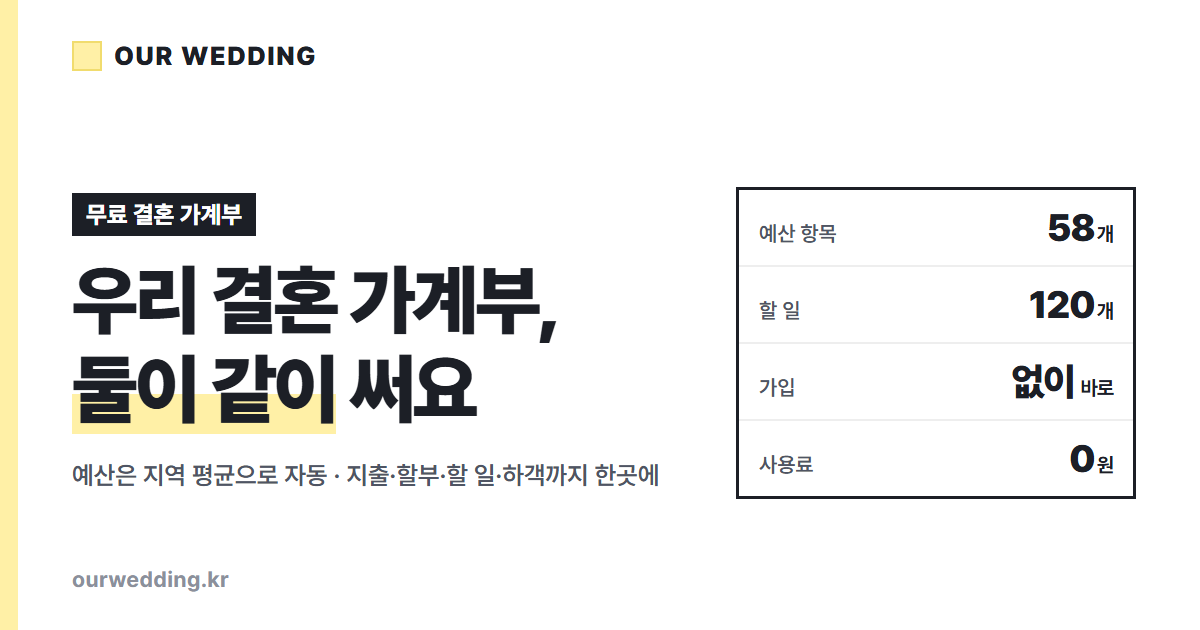
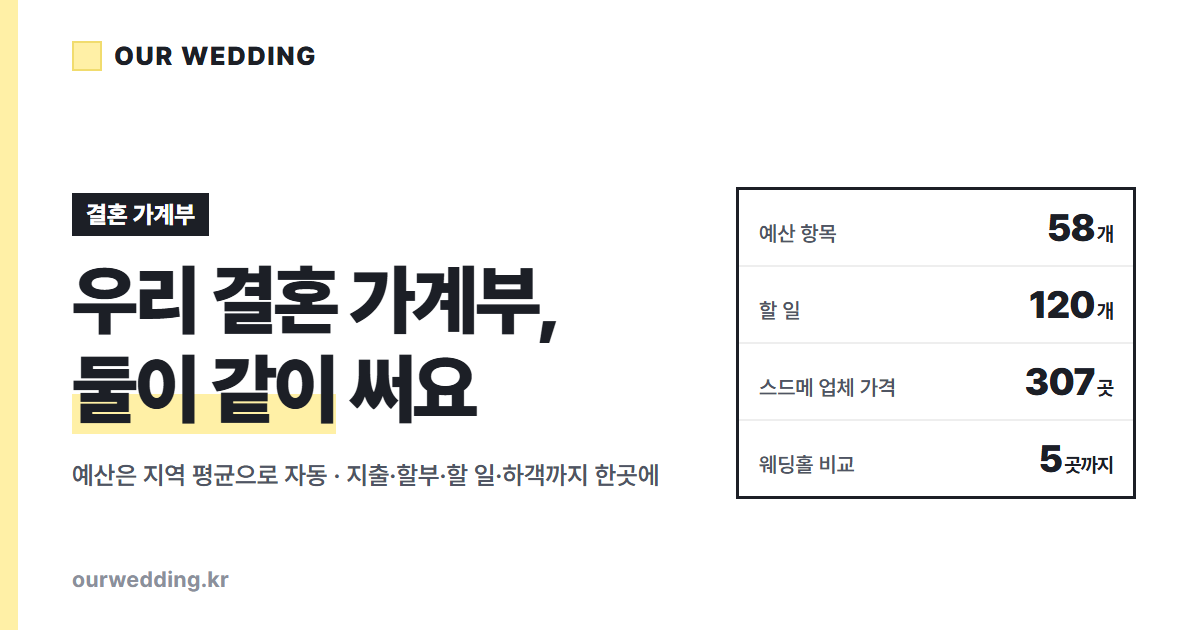
썸네일에서 사용료·가입 문구 빼고 기능 숫자로, 첫 화면 '무료' 문구 정리, og 이미지 주소에 버전

diff --git a/index.html b/index.html
@@ -4,7 +4,7 @@
 <meta charset="utf-8">
 <meta name="viewport" content="width=device-width,initial-scale=1">
 <title>OUR WEDDING · 막막한 결혼 준비, 한 번에</title>
-<meta name="description" content="남들은 결혼에 얼마 쓰는지, 무엇부터 어떤 순서로 하는지, 어느 웨딩홀이 괜찮은지. 흩어진 결혼 준비 정보를 한곳에 모은 무료 결혼 가계부.">
+<meta name="description" content="남들은 결혼에 얼마 쓰는지, 무엇부터 어떤 순서로 하는지, 어느 웨딩홀이 괜찮은지. 흩어진 결혼 준비 정보를 한곳에 모은 결혼 가계부.">
 <meta property="og:title" content="OUR WEDDING · 막막한 결혼 준비, 한 번에">
 <meta property="og:description" content="남들은 얼마 쓰는지, 어떤 순서로 하는지. 흩어진 결혼 준비 정보를 한곳에서 봐요.">
 <meta property="og:type" content="website">
@@ -149,11 +149,11 @@ footer a{color:var(--sub)}
 
 <section class="hero"><div class="wrap">
   <div>
-    <div class="eyebrow">결혼 준비, 무료로 한곳에서</div>
+    <div class="eyebrow">결혼 준비, 한곳에서</div>
     <h1>막막한 결혼 준비,<br><span class="mark">여기서 한 번에</span> 봐요</h1>
     <p class="sub">카페·블로그·박람회에 흩어진 결혼 정보를 한곳에 모았어요. 남들은 얼마 쓰는지, 무엇부터 어떤 순서로 하는지, 어느 웨딩홀이 괜찮은지 실제 통계와 경험으로 정리했어요.</p>
     <div class="ctas"><a class="btn y" href="app.html">우리 결혼 가계부 시작하기</a><a class="btn w" href="cost.html">남들은 얼마 쓸까</a></div>
-    <div class="free">회원가입 없이 바로 써요 · 돈 받지 않아요</div>
+    <div class="free">회원가입 없이 바로 써요</div>
   </div>
   <div class="glance" aria-label="한눈에 보기">
     <div class="hd">결혼 준비 한눈에</div>
